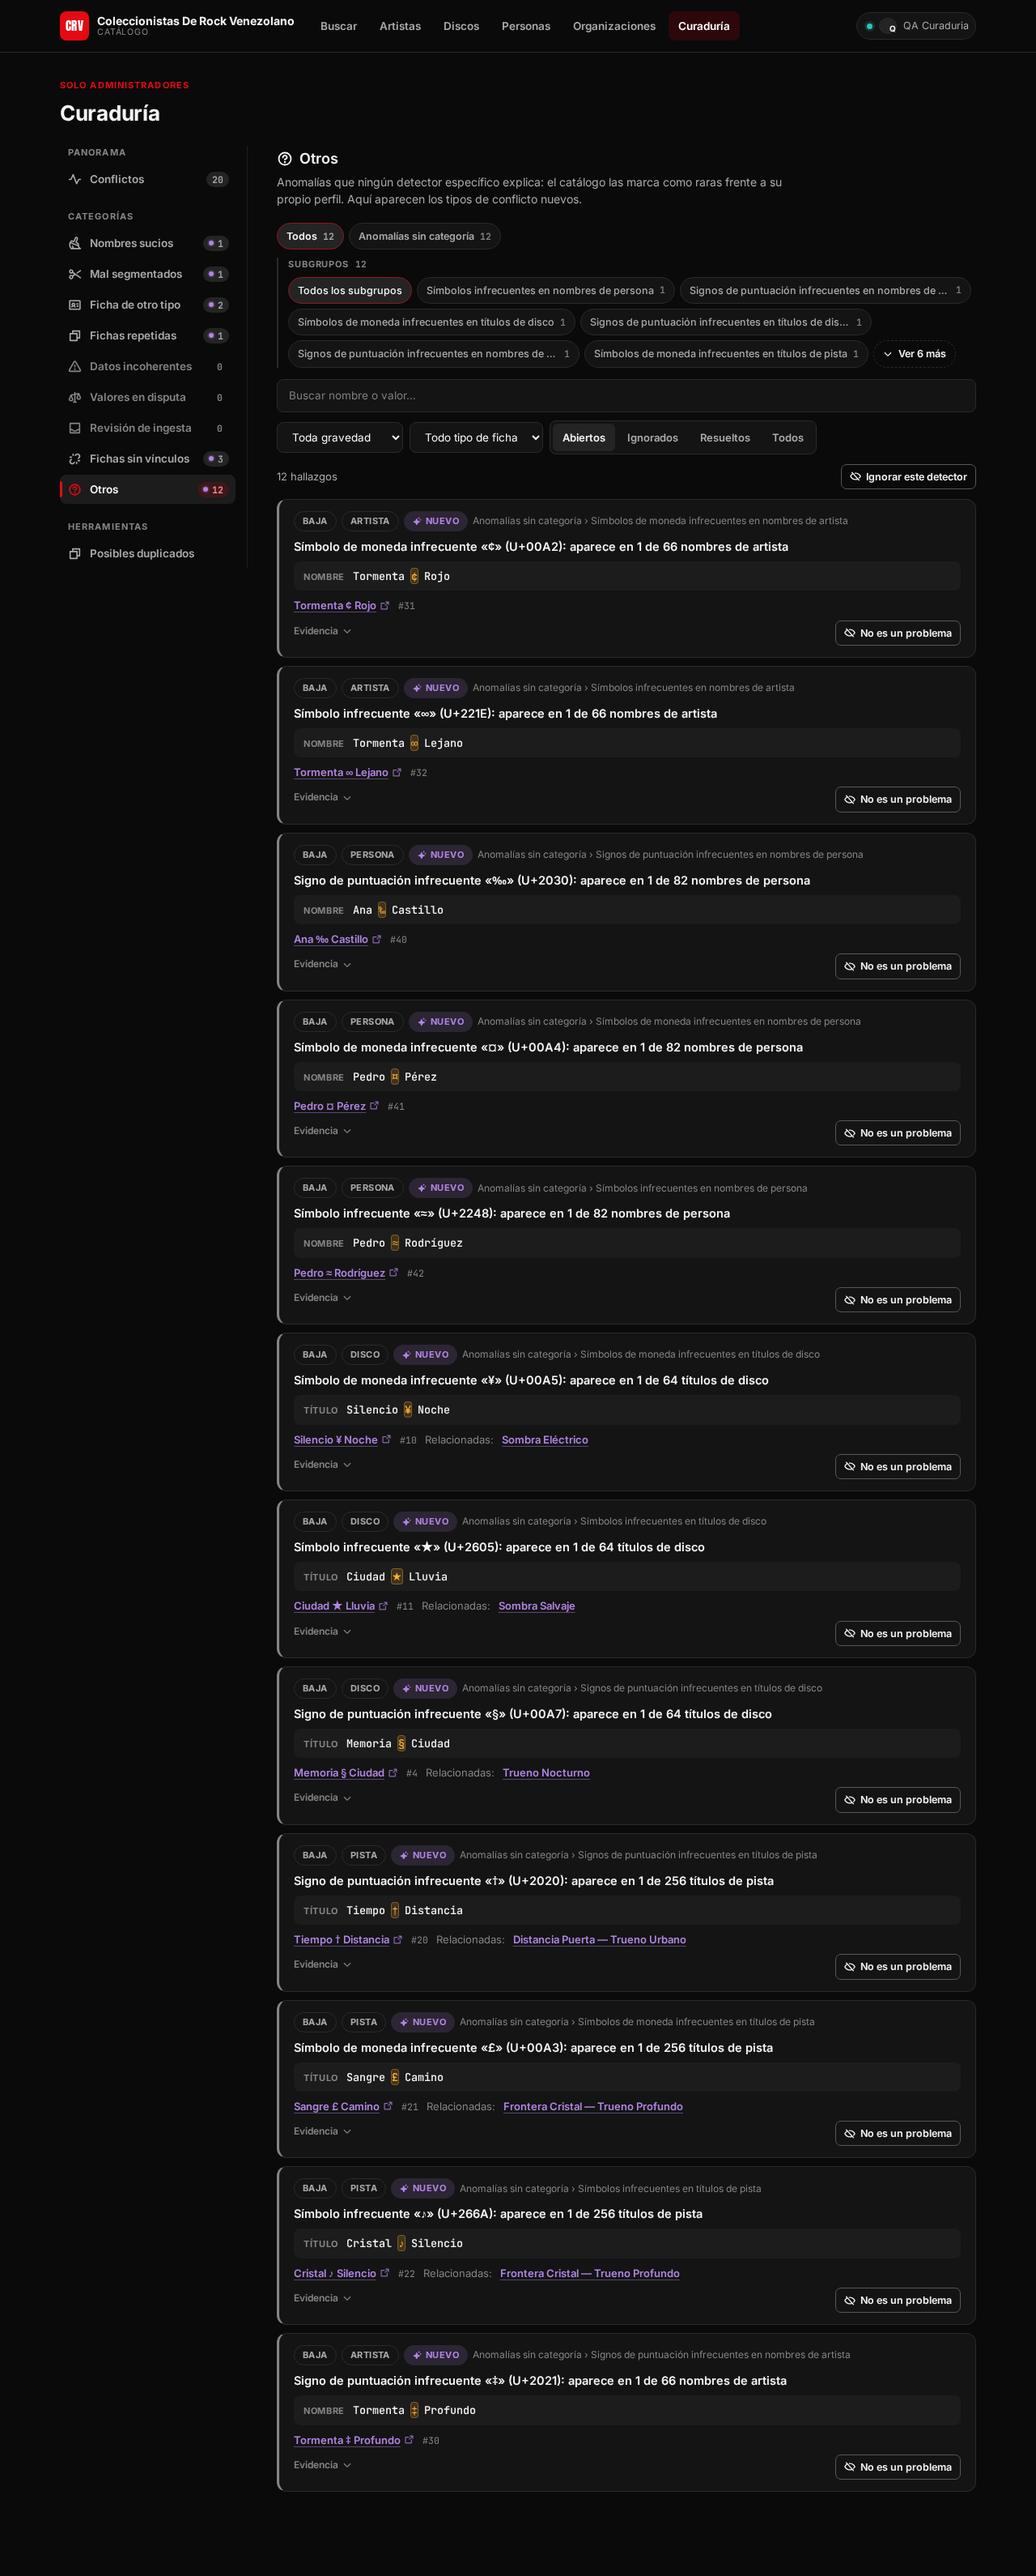
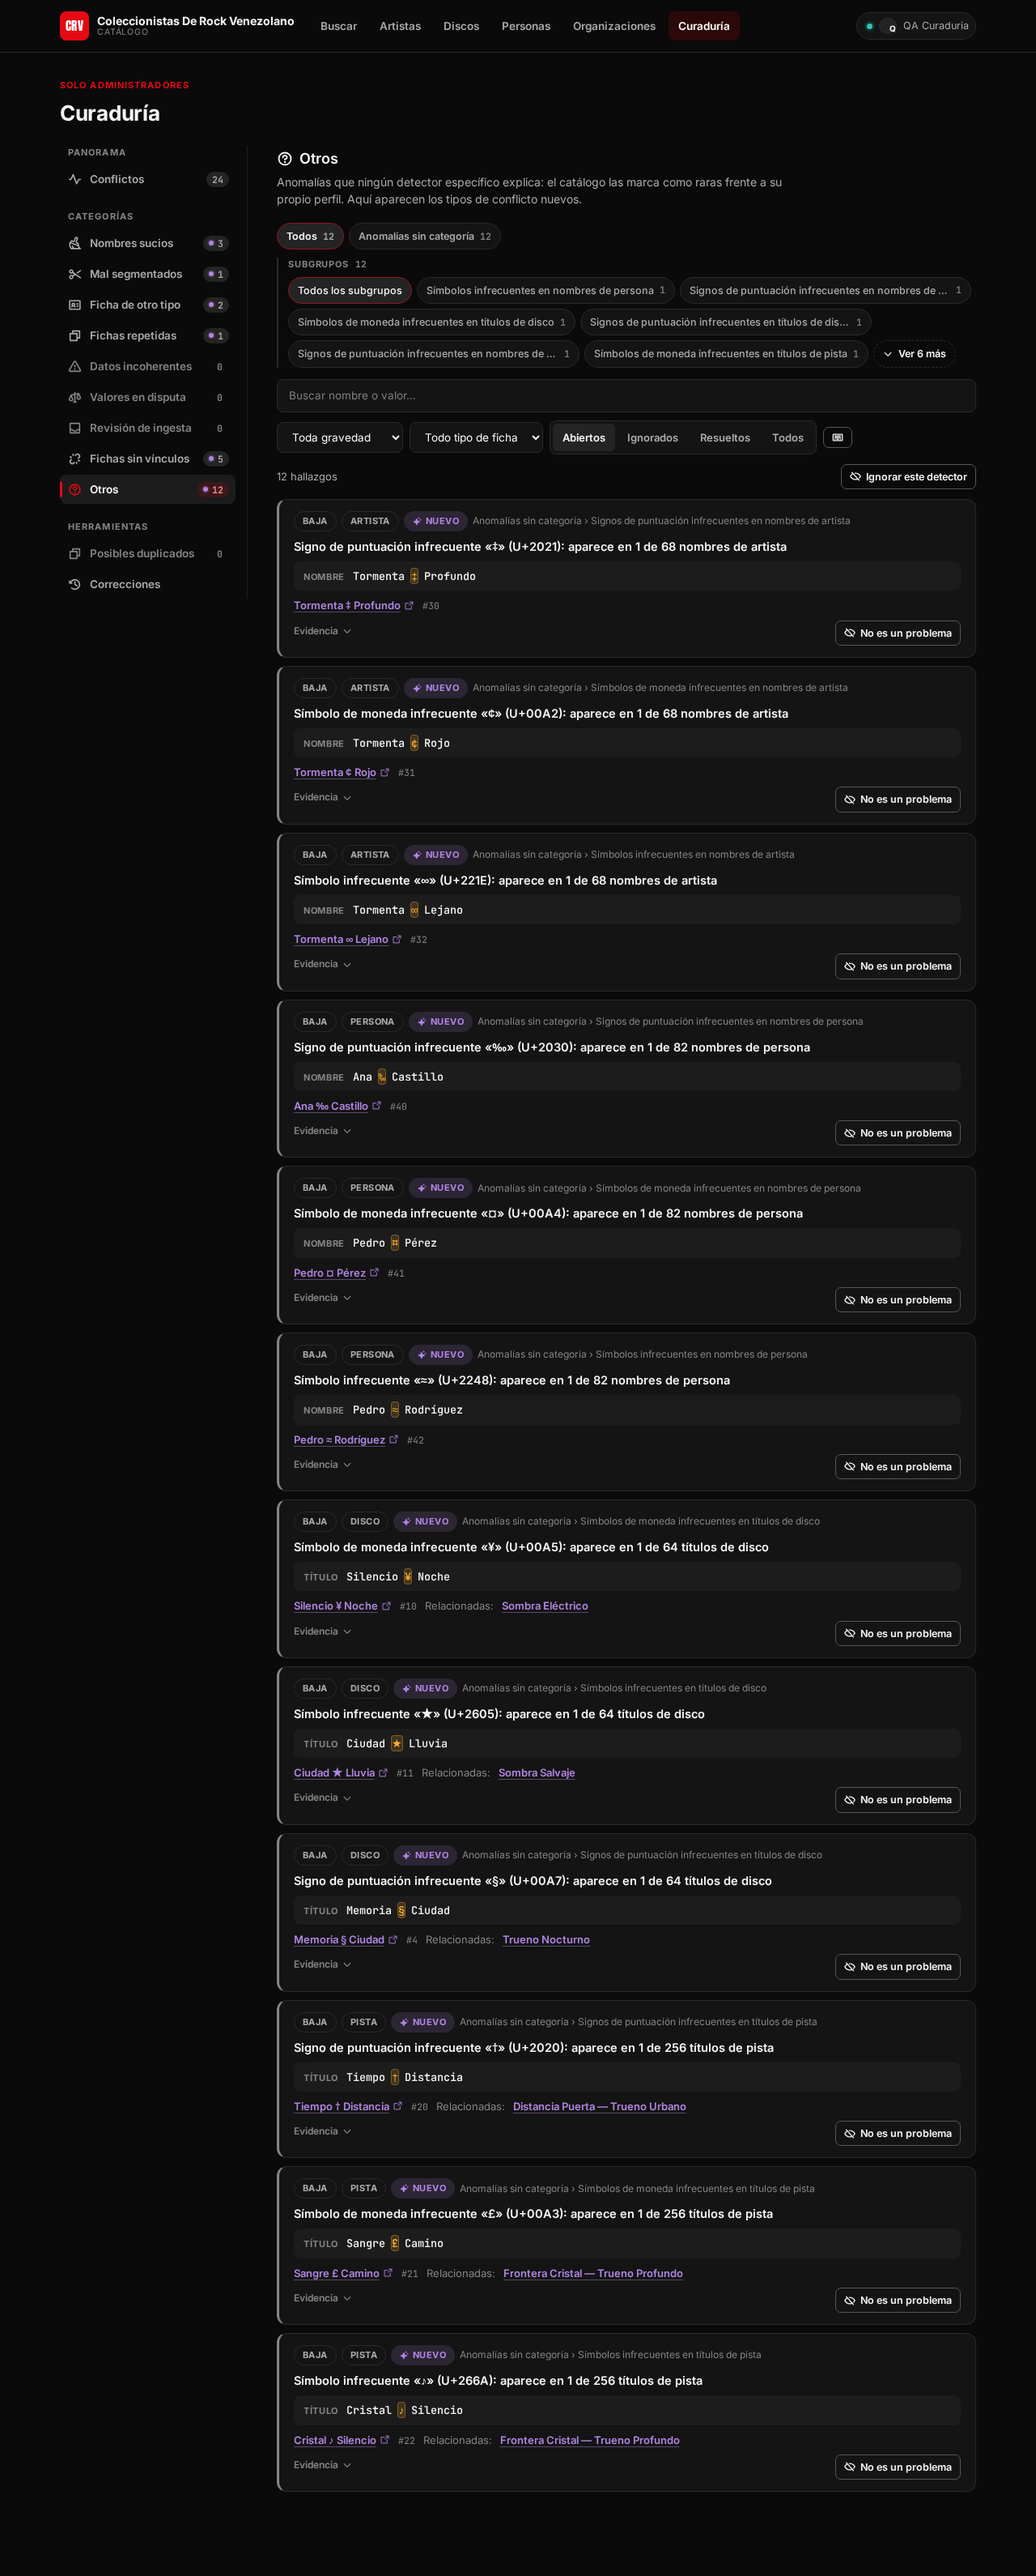
docs(ui-qa): capturas de conflictos, revisado, correcciones y teclado
Regenera las capturas existentes de Curaduría (cambió la tarjeta) y
agrega las de las pantallas nuevas: vista previa, lote aplicado,
deshacer, historial de correcciones, selección total, navegación por
teclado y la hoja de acciones en móvil.

diff --git a/web/tests/visual/curation-qa.ts b/web/tests/visual/curation-qa.ts
@@ -11,6 +11,12 @@
 // por tandas, sin overflow horizontal, sin errores de consola, que «No es un
 // problema» pide un motivo y guarda la decisión, y que «Son distintas» guarda el
 // par (PLAN_CURADURIA E2).
+//
+// De E8, además: el botón principal de la tarjeta lleva el nombre de la acción
+// recomendada, la vista previa resalta el tramo que cambia, aplicar deja la
+// barra de resultado y un «Deshacer» a mano, el lote aparece en el historial,
+// «seleccionar los N que cumplen el filtro» sale al elegir uno, los atajos de
+// teclado mueven el foco y en móvil las acciones viven en una hoja inferior.
 import { spawn, type ChildProcess } from "node:child_process";
 import { createServer } from "node:net";
 import { randomBytes, scrypt as scryptCallback } from "node:crypto";
@@ -121,6 +127,12 @@ async function seed(): Promise<{ dirtyArtist: number }> {
     // Nombres de tabla y columna fijos de esta lista, no vienen de fuera.
     await pool.query(`UPDATE public.${table} SET ${column} = regexp_replace(${column}, ' ', $2) WHERE id = $1`, [id, ` ${sign} `]);
   }
+  // Dos nombres con entidades HTML: tienen acción recomendada (`decodificar_html`)
+  // y una alternativa (`limpiar_texto`), así que sirven para la tarjeta con
+  // acciones reales, «Otras correcciones» y la vista previa (E8). Cada pasada
+  // corrige uno, y ninguno es el caso del análisis de verificación del final.
+  await one("INSERT INTO public.artists(name, origin_city) VALUES('Ra&iacute;ces Vivas QA', 'Barquisimeto') RETURNING id");
+  await one("INSERT INTO public.artists(name, origin_city) VALUES('Ni&ntilde;os del Sur QA', 'Mérida') RETURNING id");
   // Un par de artistas escritos de otra forma, para «Son distintas».
   await one("INSERT INTO public.artists(name, origin_city) VALUES('Los Relámpago QA', 'Caracas') RETURNING id");
   await one("INSERT INTO public.artists(name, origin_city) VALUES('Relámpago QA', 'Maracay') RETURNING id");
@@ -144,6 +156,16 @@ async function waitForCorrectionScan(afterId: number): Promise<void> {
 
 async function waitForApp(page: Page): Promise<void> {
   await page.waitForFunction(() => (document.querySelector("#root")?.childElementCount ?? 0) > 0, undefined, { timeout: 60_000 });
+}
+
+/**
+ * En móvil las acciones de una tarjeta están en una hoja inferior (E8.9): antes
+ * de pulsar cualquiera hay que abrirla. En escritorio ya están a la vista.
+ */
+async function openCardActions(page: Page, mobile: boolean): Promise<void> {
+  if (!mobile) return;
+  await page.locator(".cfind").first().getByRole("button", { name: "Acciones" }).click();
+  await page.getByRole("dialog").waitFor({ timeout: 10_000 });
 }
 
 async function assertNoOverflow(page: Page, label: string): Promise<void> {
@@ -261,10 +283,14 @@ try {
       await assertNoOverflow(page, `${viewport.name} otros`);
 
       // 4. «No es un problema» pide un motivo y guarda la decisión con él.
+      //    En móvil las acciones de la tarjeta viven en una hoja inferior (E8.9),
+      //    así que primero se abre.
       await page.goto(`${webUrl}/curaduria/categoria/ficha_de_otro_tipo`, { waitUntil: "domcontentloaded" });
+      await page.locator(".cfind").first().waitFor({ timeout: 20_000 });
+      const before = await page.locator(".cfind").count();
+      await openCardActions(page, index === 1);
       const ignoreButton = page.getByRole("button", { name: "No es un problema" }).first();
       await ignoreButton.waitFor({ timeout: 20_000 });
-      const before = await page.getByRole("button", { name: "No es un problema" }).count();
       await ignoreButton.click();
       const ignoreDialog = page.getByRole("dialog");
       // Sin motivo no se guarda.
@@ -287,6 +313,8 @@ try {
       // 4b. «Son distintas» guarda el par (solo la primera vez: después ya no está abierto).
       if (index === 0) {
         await page.goto(`${webUrl}/curaduria/categoria/fichas_repetidas`, { waitUntil: "domcontentloaded" });
+        await page.locator(".cfind").first().waitFor({ timeout: 20_000 });
+        await openCardActions(page, index === 1);
         const distinctButton = page.getByRole("button", { name: "Son distintas" }).first();
         await distinctButton.waitFor({ timeout: 20_000 });
         const beforeDistinct = await lastScanId();
@@ -304,7 +332,96 @@ try {
         await assertNoOverflow(page, `${viewport.name} fichas_repetidas`);
       }
 
-      // 5. Corrección por la API (solo la primera vez): quita el invisible pero
+      // 5. Triaje con teclado y selección por filtro (E8.3/E8.6) sobre los
+      //    nombres con entidades HTML, que sí tienen corrección de un clic.
+      await page.goto(`${webUrl}/curaduria/categoria/nombres_sucios?detector=entidades_html`, { waitUntil: "domcontentloaded" });
+      const card = page.locator(".cfind").first();
+      await card.waitFor({ timeout: 20_000 });
+      await page.keyboard.press("j");
+      await page.locator(".cfind--focused").first().waitFor({ timeout: 10_000 });
+      await page.keyboard.press("x");
+      const selectionBar = page.getByRole("toolbar", { name: "Acciones sobre lo seleccionado" });
+      await selectionBar.waitFor({ timeout: 10_000 });
+      await selectionBar.getByRole("button", { name: /^Seleccionar los .* que cumplen el filtro$/u }).waitFor({ timeout: 10_000 });
+      await page.waitForTimeout(300);
+      await page.screenshot({ path: path.join(outputDir, `${viewport.name}-seleccion-total.png`), fullPage: true });
+      await assertNoOverflow(page, `${viewport.name} selección por filtro`);
+      await page.keyboard.press("?");
+      const helpDialog = page.getByRole("dialog");
+      await helpDialog.getByText("Atajos de teclado").first().waitFor({ timeout: 10_000 });
+      await page.waitForTimeout(300);
+      await page.screenshot({ path: path.join(outputDir, `${viewport.name}-teclado.png`), fullPage: true });
+      await helpDialog.getByRole("button", { name: "Entendido" }).click();
+      await selectionBar.getByRole("button", { name: "Vaciar selección" }).click();
+
+      // 6. Tarjeta con la acción recomendada → vista previa → aplicar →
+      //    «Deshacer» a mano (E8.1/E8.2/E8.4). En móvil las acciones están en
+      //    una hoja inferior (E8.9).
+      if (index === 1) {
+        await card.getByRole("button", { name: "Acciones" }).click();
+        const sheet = page.getByRole("dialog");
+        await sheet.getByRole("button", { name: /Decodificar/u }).waitFor({ timeout: 10_000 });
+        await page.waitForTimeout(300);
+        await page.screenshot({ path: path.join(outputDir, `${viewport.name}-acciones-hoja.png`), fullPage: true });
+        await assertNoOverflow(page, `${viewport.name} hoja de acciones`);
+        await sheet.getByRole("button", { name: /Decodificar/u }).click();
+      } else {
+        const primary = card.locator(".cfind__actions .btn--primary").first();
+        const primaryLabel = (await primary.innerText()).trim();
+        if (!/decodificar/iu.test(primaryLabel)) {
+          throw new Error(`${viewport.name}: el botón principal debería ser la acción recomendada, dice «${primaryLabel}»`);
+        }
+        const menuButton = card.getByRole("button", { name: "Otras correcciones" });
+        if (!await menuButton.count()) {
+          throw new Error(`${viewport.name}: falta «Otras correcciones» en un hallazgo con dos acciones`);
+        }
+        await menuButton.click();
+        const menu = card.getByRole("menu");
+        await menu.getByRole("menuitem", { name: /Limpiar el texto/u }).waitFor({ timeout: 10_000 });
+        await page.waitForTimeout(200);
+        await page.screenshot({ path: path.join(outputDir, `${viewport.name}-otras-correcciones.png`), fullPage: true });
+        // Un menú tiene que poder abandonarse con el teclado.
+        await page.keyboard.press("Escape");
+        await menu.waitFor({ state: "detached", timeout: 5_000 });
+        await primary.click();
+      }
+
+      const fixDialog = page.getByRole("dialog");
+      await fixDialog.locator(".cdiff").first().waitFor({ timeout: 20_000 });
+      if (!await fixDialog.locator(".cdiff mark").count()) {
+        throw new Error(`${viewport.name}: la vista previa no resalta el tramo que cambia`);
+      }
+      await page.waitForTimeout(300);
+      await page.screenshot({ path: path.join(outputDir, `${viewport.name}-vista-previa.png`), fullPage: true });
+      await assertNoOverflow(page, `${viewport.name} vista previa`);
+      const beforeFix = await lastScanId();
+      await fixDialog.getByLabel(/^Motivo/u).fill("QA: decodificar la entidad HTML");
+      await fixDialog.getByRole("button", { name: /^Aplicar/u }).click();
+      await fixDialog.locator(".cprogress").waitFor({ timeout: 20_000 });
+      await page.waitForTimeout(300);
+      await page.screenshot({ path: path.join(outputDir, `${viewport.name}-lote-aplicado.png`), fullPage: true });
+      await page.locator(".toast__action", { hasText: "Deshacer" }).waitFor({ timeout: 10_000 });
+      await page.screenshot({ path: path.join(outputDir, `${viewport.name}-deshacer.png`), fullPage: true });
+      await assertNoOverflow(page, `${viewport.name} lote aplicado`);
+      await fixDialog.locator(".form-actions").getByRole("button", { name: "Cerrar" }).click();
+      const pending = await getPool().query<{ n: string }>("SELECT count(*)::text AS n FROM public.artists WHERE name LIKE '%&%;%'");
+      if (Number(pending.rows[0]!.n) !== 1 - index) {
+        throw new Error(`${viewport.name}: quedan ${pending.rows[0]!.n} nombres con entidad HTML, se esperaba ${1 - index}`);
+      }
+      await waitForCorrectionScan(beforeFix);
+
+      // 7. Historial de correcciones con su deshacer (E8.5).
+      await page.goto(`${webUrl}/curaduria/correcciones`, { waitUntil: "domcontentloaded" });
+      await page.getByRole("link", { name: /^Lote #/u }).first().waitFor({ timeout: 20_000 });
+      await page.screenshot({ path: path.join(outputDir, `${viewport.name}-correcciones.png`), fullPage: true });
+      await assertNoOverflow(page, `${viewport.name} correcciones`);
+      await page.getByRole("link", { name: /^Lote #/u }).first().click();
+      await page.locator(".cprogress").waitFor({ timeout: 20_000 });
+      await page.getByRole("button", { name: "Deshacer este lote" }).waitFor({ timeout: 10_000 });
+      await page.screenshot({ path: path.join(outputDir, `${viewport.name}-lote-detalle.png`), fullPage: true });
+      await assertNoOverflow(page, `${viewport.name} detalle del lote`);
+
+      // 8. Corrección por la API (solo la primera vez): quita el invisible pero
       //    mete la ciudad en el nombre. El detector debe verificarla solo.
       if (index === 0) {
         const beforePatch = await lastScanId();
